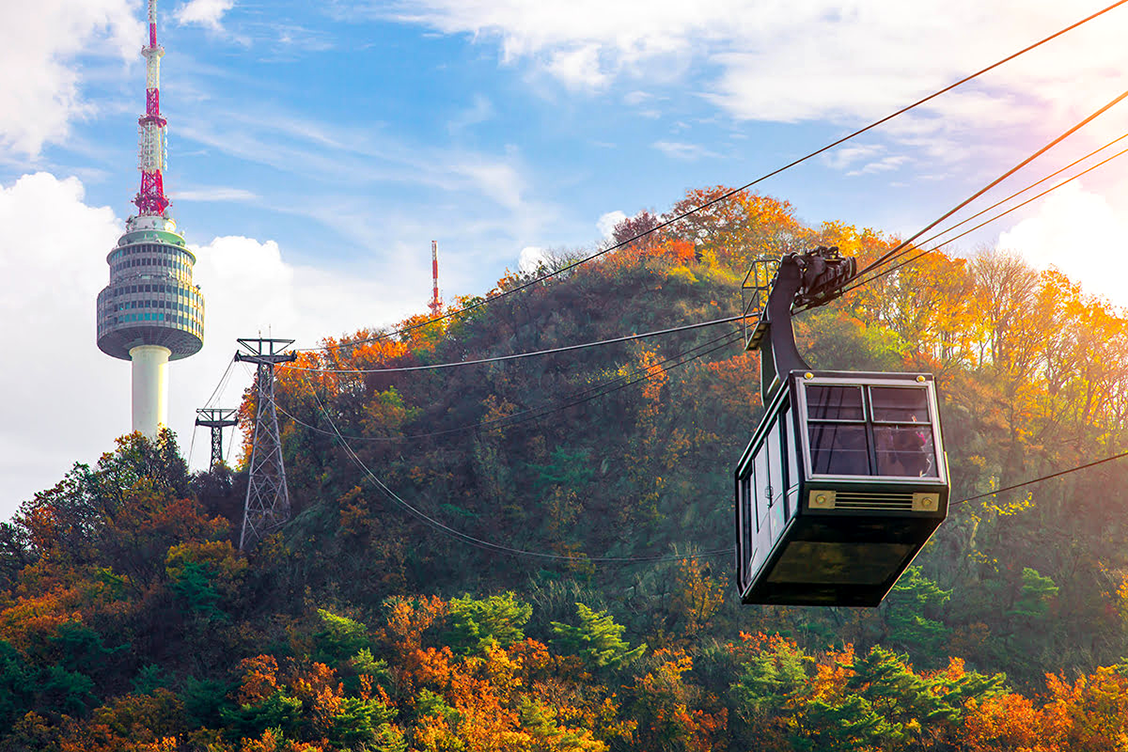
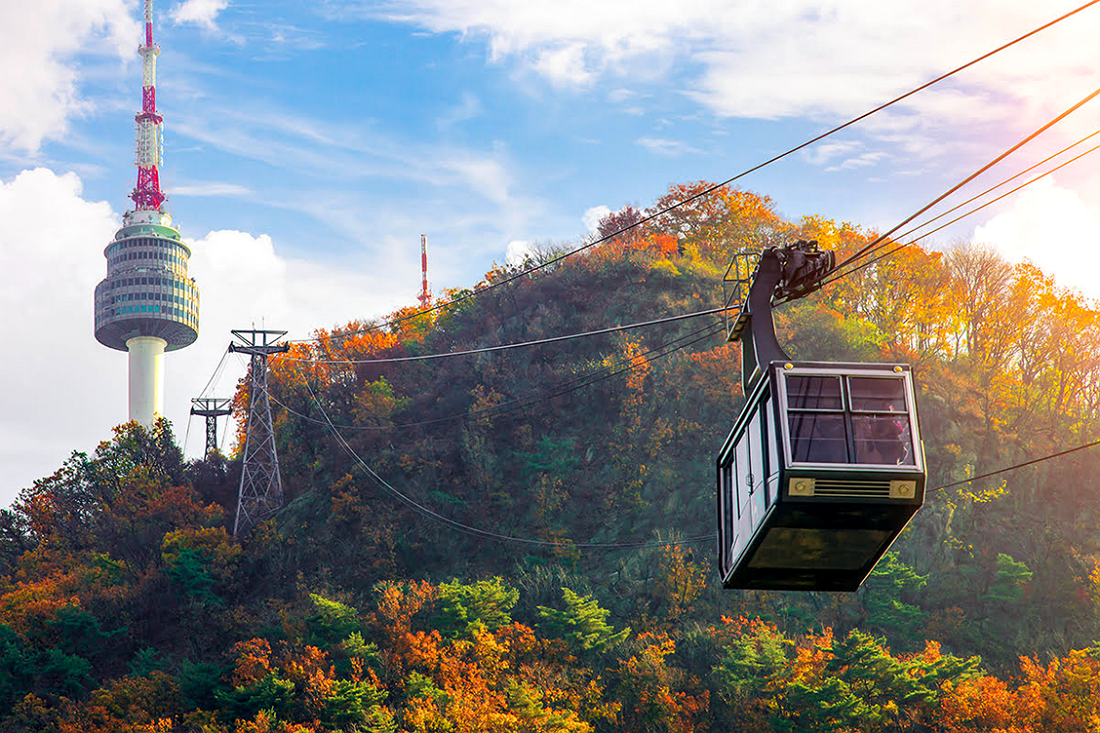
2/6 포폴 수정

diff --git a/project/pages/seoultower/css/index.css b/project/pages/seoultower/css/index.css
@@ -5,7 +5,6 @@
     width: 1200px;
     margin: 0 auto;
     padding: 0 10px;
-    /* background-color: pink; */
 }
 
 
@@ -23,7 +22,7 @@ header {
     height: 999px;
     background: url(../images/main_img.png) 0 0 no-repeat;
     background-size: cover;
-    z-index: 9999;
+    z-index: 10;
     opacity: 0;
     animation: fadeImg 1s linear forwards;
 }
@@ -34,6 +33,7 @@ header {
     position: fixed;
     top: 0; left: 0; right: 0;
     overflow: hidden;
+    z-index: 100;
 }
 
 .mainmenu-box { 
@@ -53,6 +53,7 @@ header {
 
 .main-logo img {
     height: 80px;
+    margin-left: -9px;
 }
 
 /* ======== main-menu ======== */
@@ -203,8 +204,7 @@ input::-webkit-search-cancel-button {
 }
 
 .main-img-box {
-    position: absolute;
-    top: 500px; 
+    padding-top: 500px;
     color: white;
 }
 
@@ -281,7 +281,8 @@ input::-webkit-search-cancel-button {
 /* ======== tower-guide-section ======== */
 
 .tower-guide-section {
-    margin-top: 400px;
+    position: relative;
+    margin-top: 300px;
 }
 
 .tower-guide-section > h2 {
@@ -334,16 +335,19 @@ input::-webkit-search-cancel-button {
     transform: rotate(0);
 }
 
-.guide-section-main-img {
+.guide-section-main-img img {
     position: absolute;
-    right: 0; top: 1500px;
+    right: 0; top: 0;
+    width: 65%;
+    min-width: 950px;
+    max-width: 1000px;
 }
 
 
 /* ======= tower-intro-section ======= */
 
 .tower-intro-section {
-    margin-top: 300px;    
+    margin-top: 350px;    
 } 
 
 .tower-intro-section > h2 {
@@ -575,7 +579,7 @@ footer {
 
 .logo-address-security {
     display: flex;
-    width: 56%;
+    width: 70%;
     margin-top: 66px;
     padding: 0 20px;
     font: 13px "맑은 고딕";
@@ -593,7 +597,8 @@ footer {
     display: flex;
     justify-content: space-between;
     align-items: center;
-    width: 70.1176470588%;
+    width: 90%;
+    max-width: 600px;
     padding-bottom: 27px;
 }
 

diff --git a/project/pages/seoultower/seoultower.html b/project/pages/seoultower/seoultower.html
@@ -161,7 +161,6 @@
                     </div> <!-- container -->
                     
                     <div class="guide-section-main-img">
-                        <!-- <img src="./images/tower_night.png" alt="이용안내 이미지"> -->
                         <img src="./images/namsan_cablecar.png" alt="N서울타워가이드 이미지">
                     </div> <!-- guide-section-main-img -->
     

diff --git a/project/works/sisihosi/css/index.css b/project/works/sisihosi/css/index.css
@@ -22,6 +22,9 @@ h1 {
 
 
 /* section1 header */
+.section1 {
+    overflow-y: scroll;
+}
 
 .sec1-flex-box {
     display: flex;
@@ -52,7 +55,8 @@ h1 {
 }
 
 .section1 > .sec1-txt {
-    font-size: 80px;
+    font-size: calc(50px + 80%);
+    word-break: break-all;
     padding: 0;
     padding-right: 80px;
 }

diff --git a/project/javascript/lottery/css/lottery.css b/project/javascript/lottery/css/lottery.css
@@ -89,6 +89,7 @@ td {
 
 .start {
     margin-top: 50px;
+    margin-bottom: 50px;
     padding: 10px 20px;
     text-align: center;
     color: rgb(252, 169, 183);

diff --git a/project/javascript/lottery/css/common.css b/project/javascript/lottery/css/common.css
@@ -12,6 +12,7 @@ html,
 body {
     font: 16px 'BMJua';
     color: black;
+    background-color: seashell;
 }
 
 ul,
